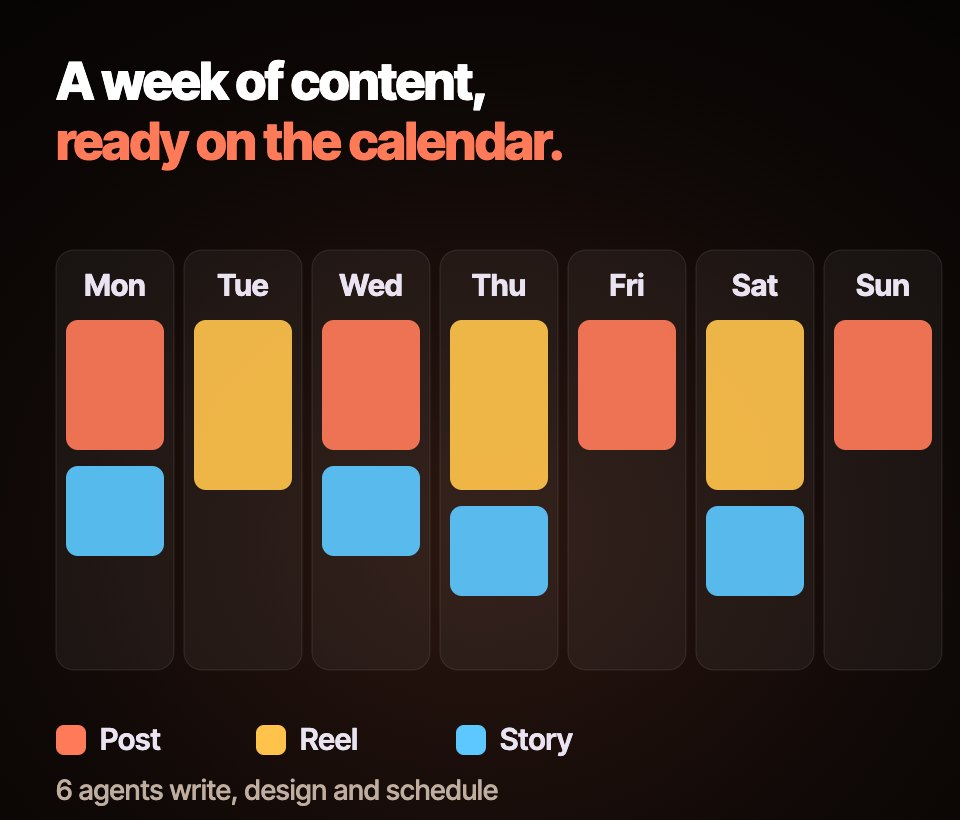
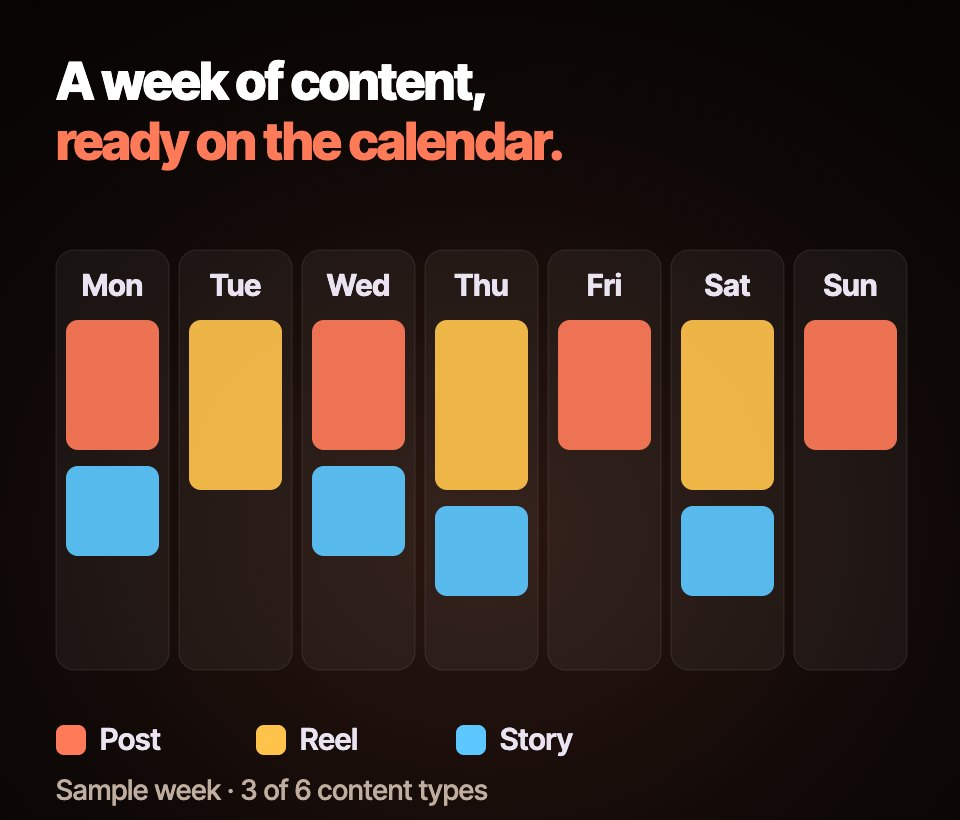
fix(work): hakem 15/20 — çizimler kırpılmaz, JS'siz mobil 24 kart, kurumsal boş hâl
- Çizim kartları kendi oranında; geniş karta yalnız son çare ve sığdırılarak
- Telefonda gizleme yalnız JS yüklenince (JS'siz 24/24 kart)
- Kurumsal filtre: açıklama + 'Kurumsal iş için yaz' düğmesi
- Kart üst etiketi büyük harf değil; geniş kart satır boyu 62ch; tarayıcı çubuğu 11px
- Studio Panel durumu Dahili; altbilgi cümlesi; Growth çizimi simetrik + 6 içerik tipi tutarlı

diff --git a/src/components/WorkExplorer.tsx b/src/components/WorkExplorer.tsx
@@ -15,11 +15,13 @@ type Filter = CategorySlug | "all";
  */
 /**
  * Satır satır yerleşimi dener; 3 sütunda boşluk bırakmayan geniş kart seçimini döndürür.
- * Sıra: ilk kart geniş + web kartları → ilk kart geniş + herhangi kart → ilk kart normal (aynı iki havuz).
+ * Sıra: web kartları → çizim olmayan kartlar → (son çare) çizimler de; her biri önce ilk kart geniş, sonra normal.
  */
 function pickWide(staged: CardProject[]): Set<string> {
   const n = staged.length;
-  const rest = staged.map((_, i) => i).slice(1).reverse();
+  const all = staged.map((_, i) => i).slice(1).reverse();
+  // Çizimler (art) tek oranlı: geniş kutuda ancak sığdırılarak (contain) durur → yalnız son çare.
+  const rest = all.filter((i) => staged[i].stage?.kind !== "art");
   const webs = rest.filter((i) => staged[i].stage?.kind === "web");
   const combos = (from: number[], k: number): number[][] =>
     k === 0 ? [[]] : from.flatMap((x, i) => combos(from.slice(i + 1), k - 1).map((c) => [x, ...c]));
@@ -32,14 +34,20 @@ function pickWide(staged: CardProject[]): Set<string> {
     }
     return col === 0;
   };
-  for (const firstWide of [true, false]) {
+  const firstArt = staged[0]?.stage?.kind === "art";
+  const tries: [boolean, number[]][] = [
+    ...(firstArt ? [] : ([[true, webs], [true, rest]] as [boolean, number[]][])),
+    [false, webs],
+    [false, rest],
+    [true, all],
+    [false, all],
+  ];
+  for (const [firstWide, pool] of tries) {
     const k = (3 - ((n + (firstWide ? 1 : 0)) % 3)) % 3;
-    for (const pool of [webs, rest]) {
-      const hit = combos(pool, k)
-        .map((c) => new Set(firstWide ? [0, ...c] : c))
-        .find(fits);
-      if (hit) return new Set([...hit].map((i) => staged[i].slug));
-    }
+    const hit = combos(pool, k)
+      .map((c) => new Set(firstWide ? [0, ...c] : c))
+      .find(fits);
+    if (hit) return new Set([...hit].map((i) => staged[i].slug));
   }
   return new Set();
 }
@@ -112,8 +120,14 @@ export default function WorkExplorer({ locale, d, cards }: { locale: Locale; d: 
             </svg>
             <div>
               <h2>{d.work.onTheWay}</h2>
+              {staged.length + plain.length === 0 && <p className="way-note">{d.work.wayNote}</p>}
               <p>{[soon > 0 && (soon === 1 ? d.work.waySoon1 : d.work.waySoonN).replace("{n}", String(soon)), nda > 0 && (nda === 1 ? d.work.wayNda1 : d.work.wayNdaN).replace("{n}", String(nda))].filter(Boolean).join(" · ")}</p>
             </div>
+            {staged.length + plain.length === 0 && (
+              <SectionLink locale={locale} id="contact" className="way-cta">
+                {d.work.wayCta} →
+              </SectionLink>
+            )}
             <ul>
               {categories
                 .map((c) => ({ c, n: veiled.filter((p) => p.category === c.slug).length }))

diff --git a/src/app/globals.css b/src/app/globals.css
@@ -587,7 +587,7 @@ html.pre-hero .hero-word { opacity: 0; letter-spacing: 0.02em; }
 .cbrw { position: absolute; left: 7%; right: 7%; top: 38px; border-radius: 12px; overflow: hidden; background: #1c1c1e; box-shadow: inset 0 0 0 1px rgba(255, 255, 255, 0.14), 0 30px 70px rgba(0, 0, 0, 0.7); transform: perspective(1400px) rotateX(9deg); transform-origin: 50% 100%; transition: transform 0.9s var(--ease); }
 .cbrw-bar { height: 24px; display: flex; align-items: center; gap: 5px; padding: 0 10px; background: #232326; }
 .cbrw-bar i { width: 7px; height: 7px; border-radius: 50%; background: #48484a; }
-.cbrw-bar span { margin-left: 8px; flex: 0 1 200px; height: 14px; border-radius: 4px; background: #2f2f33; font-size: 9px; line-height: 14px; color: #a1a1a6; padding-left: 7px; overflow: hidden; white-space: nowrap; }
+.cbrw-bar span { margin-left: 8px; flex: 0 1 200px; height: 16px; border-radius: 4px; background: #2f2f33; font-size: 11px; line-height: 16px; color: #a1a1a6; padding-left: 7px; overflow: hidden; white-space: nowrap; }
 .cbrw-view { aspect-ratio: 16 / 10; overflow: hidden; background: #0b0b0f; }
 .cbrw-view img { display: block; width: 100%; height: 100%; object-fit: cover; object-position: top; }
 .pcard:hover .cbrw { transform: perspective(1400px) rotateX(3deg) translateY(-8px); }
@@ -665,8 +665,22 @@ html.pre-hero .hero-word { opacity: 0; letter-spacing: 0.02em; }
 .work-end-cta:hover { transform: translateY(-2px); }
 [role="tabpanel"] .grid-work { padding-bottom: 0; }
 .plain-more { display: none; }
+html:not(.js) .plain-more { display: none !important; }
 @media (max-width: 639px) {
-  .grid-plain:not(.open) > .pcard:nth-child(n + 4) { display: none; }
+  .js .grid-plain:not(.open) > .pcard:nth-child(n + 4) { display: none; }
   .plain-more { display: flex; align-items: center; justify-content: center; width: 100%; min-height: 48px; margin-top: 16px; border-radius: 999px; border: 1px solid var(--line-2); background: transparent; color: #fff; font-size: 16px; font-weight: 500; }
 }
 .work-sub { font-size: clamp(20px, 1.8vw, 24px); color: var(--soft); }
+
+/* Hakem 15/20 düzeltmeleri */
+.cstage-art { height: auto; aspect-ratio: 960 / 820; }
+.cstage-art img { object-position: center; }
+.pcard-top { font-size: 13px; letter-spacing: 0; text-transform: none; }
+.pcard-big p, .way-strip p { max-width: 62ch; }
+.pcard.reveal { transition-duration: 0.35s; }
+.way-note { margin: 6px 0 0 !important; }
+.way-cta { grid-column: 1 / -1; justify-self: start; display: inline-flex; align-items: center; min-height: 44px; margin-top: 16px; padding: 0 20px; border-radius: 999px; background: #fff; color: #000; font-size: 15px; font-weight: 600; }
+@media (min-width: 1024px) {
+  .pcard-big .cstage-art { aspect-ratio: auto; height: 440px; background: #050505; }
+  .pcard-big .cstage-art img { object-fit: contain; }
+}

diff --git a/src/data/projects.ts b/src/data/projects.ts
@@ -1024,7 +1024,7 @@ export const projects: Project[] = [
   {
     slug: "growth-engine",
     cover: { src: "/shots/growth.jpg", srcEn: "/shots/growth-en.jpg", kind: "web" },
-    stage: { kind: "art", shots: ["/shots/stage/art-growth-tr.jpg"], shotsEn: ["/shots/stage/art-growth-en.jpg"], glow: "#FF7A59", alt: { tr: "Haftalık içerik takvimi: altı ajanın yazıp hazırladığı post, reel ve story'ler yedi güne yerleşmiş.", en: "Weekly content calendar: posts, reels and stories written and prepared by six agents, placed across seven days." } },
+    stage: { kind: "art", shots: ["/shots/stage/art-growth-tr.jpg"], shotsEn: ["/shots/stage/art-growth-en.jpg"], glow: "#FF7A59", alt: { tr: "Örnek haftalık içerik takvimi: altı içerik tipinden post, reel ve story yedi güne yerleşmiş.", en: "Sample weekly content calendar: posts, reels and stories, three of the six content types, placed across seven days." } },
     name: "Growth Engine",
     category: "ai",
     status: "live",
@@ -1118,7 +1118,7 @@ export const projects: Project[] = [
     slug: "studio-panel",
     name: "Studio Panel",
     category: "ai",
-    status: "live",
+    status: "internal",
     year: "2026",
     stack: ["Python", "Local server", "JSON store"],
     summary: {

diff --git a/src/i18n/dict.ts b/src/i18n/dict.ts
@@ -112,6 +112,8 @@ export const dict = {
       veilNoteNda: "Client work under NDA",
       more: "More work",
       showAll: "Show all",
+      wayNote: "Enterprise work stays under NDA; we share the method and the measured result, never the client.",
+      wayCta: "Ask about enterprise work",
       onTheWay: "On the way",
       waySoon1: "1 product in progress",
       waySoonN: "{n} products in progress",
@@ -319,6 +321,8 @@ export const dict = {
       veilNoteNda: "Gizlilik sözleşmeli müşteri işi",
       more: "Daha fazla iş",
       showAll: "Tümünü gör",
+      wayNote: "Kurumsal işler gizlilik sözleşmeli; müşteriyi değil, yöntemi ve ölçülen sonucu paylaşırız.",
+      wayCta: "Kurumsal iş için yaz",
       onTheWay: "Yolda",
       waySoon1: "1 ürün yapım aşamasında",
       waySoonN: "{n} ürün yapım aşamasında",
@@ -417,7 +421,7 @@ export const dict = {
     },
     footer: {
       rights: "Tüm hakları saklıdır.",
-      built: "Stüdyonun kendi elinden, herkesin gözü önünde.",
+      built: "Stüdyoda tasarlanıp kodlandı.",
       disciplines: "Disiplinler",
       studio: "Stüdyo",
     },

diff --git a/design/stage-art/art.html b/design/stage-art/art.html
@@ -176,7 +176,7 @@ function growth() {
   const C = { post: "#FF7A59", reel: "#FFC24B", story: "#5CC8FF" };
   const days = L === "en" ? ["Mon", "Tue", "Wed", "Thu", "Fri", "Sat", "Sun"] : ["Pzt", "Sal", "Çar", "Per", "Cum", "Cmt", "Paz"];
   const plan = [["post", "story"], ["reel"], ["post", "story"], ["reel", "story"], ["post"], ["reel", "story"], ["post"]];
-  const x0 = 56, cw = 118, gap = 10, y0 = 250;
+  const x0 = 56, cw = 113, gap = 10, y0 = 250;
   let cols = "";
   days.forEach((d, i) => {
     const x = x0 + i * (cw + gap);
@@ -195,7 +195,7 @@ function growth() {
     <text x="56" y="160" fill="#FF7A59" font-size="52" font-weight="800" letter-spacing="-1.5">${T("takvimde hazır.", "ready on the calendar.")}</text>
     ${cols}
     ${legend}
-    <text x="56" y="800" fill="#bfae9f" font-size="28" font-weight="500">${T("6 ajan yazar, çizer, yerleştirir", "6 agents write, design and schedule")}</text>
+    <text x="56" y="800" fill="#bfae9f" font-size="28" font-weight="500">${T("Örnek hafta · 6 içerik tipinden 3'ü", "Sample week · 3 of 6 content types")}</text>
   </svg>`;
 }
 
